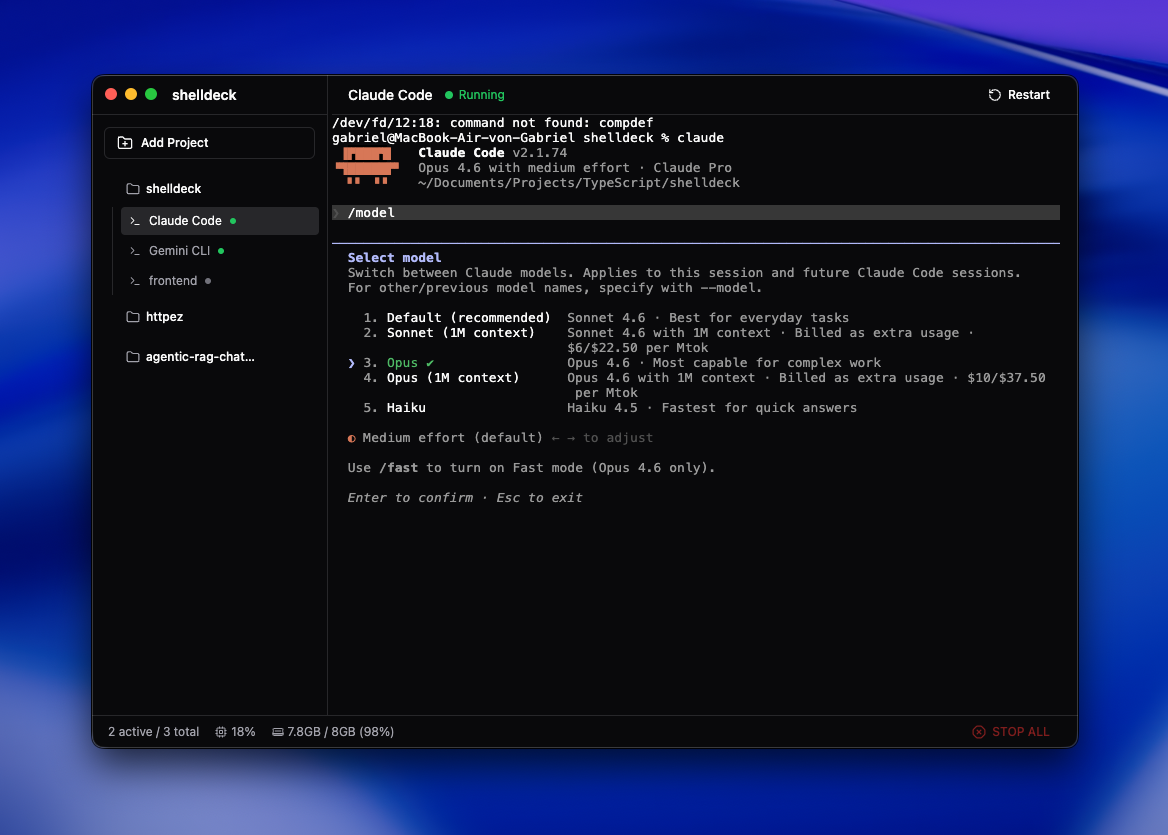
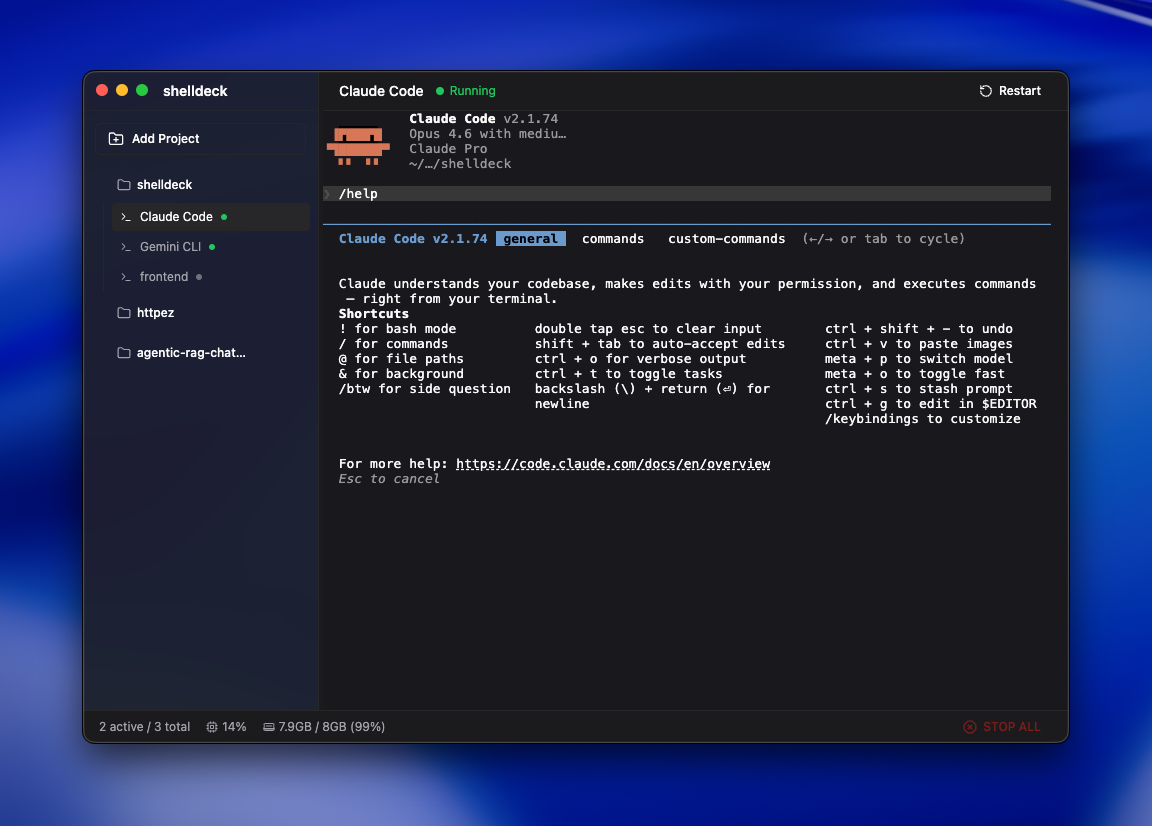
feat: translucent sidebar with vibrancy and lighter app background

diff --git a/src/renderer/components/workspace/Workspace.tsx b/src/renderer/components/workspace/Workspace.tsx
@@ -44,7 +44,7 @@ export function Workspace({ terminalManager }: WorkspaceProps) {
 
   if (state.sessions.length === 0) {
     return (
-      <div className="flex-1 flex items-center justify-center">
+      <div className="flex-1 flex items-center justify-center bg-background">
         <p className="text-muted-foreground text-sm">
           Add a project and open a terminal to get started.
         </p>
@@ -53,7 +53,7 @@ export function Workspace({ terminalManager }: WorkspaceProps) {
   }
 
   return (
-    <div className="flex-1 flex flex-col min-w-0">
+    <div className="flex-1 flex flex-col min-w-0 bg-background">
       {/* Header for the active terminal */}
       {activeSession && activeProject && (
         <TerminalHeader

diff --git a/src/renderer/components/sidebar/Sidebar.tsx b/src/renderer/components/sidebar/Sidebar.tsx
@@ -29,11 +29,11 @@ export function Sidebar({ width, terminalManager }: SidebarProps) {
 
   return (
     <aside
-      className="flex flex-col border-r border-border bg-background shrink-0"
+      className="flex flex-col border-r border-border bg-zinc-900/60 backdrop-blur-xl shrink-0"
       style={{ width }}
     >
       {/* Draggable title bar region for macOS */}
-      <div className="h-10 flex items-center px-4 border-b border-border draggable-region">
+      <div className="h-10 flex items-center px-4 border-b border-border/50 draggable-region">
         <span className="text-sm font-semibold text-foreground pl-16">shelldeck</span>
       </div>
 

diff --git a/src/renderer/index.css b/src/renderer/index.css
@@ -4,7 +4,7 @@
 
 @layer base {
   :root {
-    --background: 240 10% 3.9%;
+    --background: 240 5% 11%;
     --foreground: 0 0% 98%;
     --card: 240 10% 3.9%;
     --card-foreground: 0 0% 98%;
@@ -27,8 +27,10 @@
   * {
     @apply border-border;
   }
+  html,
   body {
-    @apply bg-background text-foreground;
+    background: transparent !important;
+    @apply text-foreground;
     font-family:
       -apple-system, BlinkMacSystemFont, 'Segoe UI', Roboto, Oxygen, Ubuntu, Cantarell, 'Fira Sans',
       'Droid Sans', 'Helvetica Neue', sans-serif;

diff --git a/src/renderer/components/sidebar/ResizeHandle.tsx b/src/renderer/components/sidebar/ResizeHandle.tsx
@@ -55,7 +55,7 @@ export function ResizeHandle({ sidebarWidth, onResize, onResizeEnd }: ResizeHand
 
   return (
     <div
-      className="w-1 cursor-col-resize hover:bg-accent/50 active:bg-accent transition-colors shrink-0"
+      className="w-1 cursor-col-resize hover:bg-accent/50 active:bg-accent transition-colors shrink-0 bg-background"
       onMouseDown={handleMouseDown}
       onDoubleClick={handleDoubleClick}
     />

diff --git a/src/main/index.ts b/src/main/index.ts
@@ -40,7 +40,10 @@ function createWindow(): BrowserWindow {
     minWidth: 900,
     minHeight: 600,
     titleBarStyle: 'hiddenInset',
-    backgroundColor: '#09090b', // zinc-950
+    backgroundColor: '#00000000',
+    transparent: true,
+    vibrancy: 'sidebar',
+    visualEffectState: 'active',
     webPreferences: {
       preload: join(__dirname, '../preload/index.js'),
       contextIsolation: true,

diff --git a/src/renderer/hooks/use-terminal.ts b/src/renderer/hooks/use-terminal.ts
@@ -52,7 +52,7 @@ export function useTerminalManager() {
       fontSize: 13,
       fontFamily: '"SF Mono", "Fira Code", "Cascadia Code", Menlo, monospace',
       theme: {
-        background: '#09090b',
+        background: '#19191d',
         foreground: '#fafafa',
         cursor: '#fafafa',
         selectionBackground: '#27272a',

diff --git a/README.md b/README.md
@@ -17,20 +17,17 @@
   <img src=".github/screenshot.png" alt="shelldeck screenshot" width="800" />
 </p>
 
-Running CLI-based coding agents (Claude Code, Codex, Aider, etc.) across multiple projects means juggling a lot of terminal windows. shelldeck gives you a single dashboard where each project gets its own group of terminals, all starting in the right directory. Switch between agents without losing output, restart crashed sessions in one click, and see system resource usage at a glance.
+Running CLI-based coding agents (Claude Code, Codex, Gemini CLI, etc.) across multiple projects means juggling a lot of terminal windows. shelldeck gives you a single dashboard where each project gets its own group of terminals, all starting in the right directory. Switch between agents without losing output, restart crashed sessions in one click, and see system resource usage at a glance.
 
 It works just as well for general terminal workflows, but the multi-agent use case is what motivated it.
 
 ## Features
 
-- **Project-based organization:** group terminals by project folder
-- **Persistent layout:** projects and terminal sessions survive app restarts
-- **Output preservation:** switch between terminals without losing scrollback
-- **Drag-and-drop:** reorder projects in the sidebar
-- **Terminal search:** find text in scrollback with Cmd/Ctrl+F
-- **Keyboard shortcuts:** new terminal, switch sessions, close, all from the keyboard
-- **System monitoring:** CPU and memory usage in the status bar
-- **Cross-platform:** macOS, Linux, Windows
+- Group terminals by project folder
+- Persistent layout across restarts
+- Switch terminals without losing output
+- Keyboard shortcuts and terminal search
+- Cross-platform (macOS, Linux, Windows)
 
 ## Getting started
 
